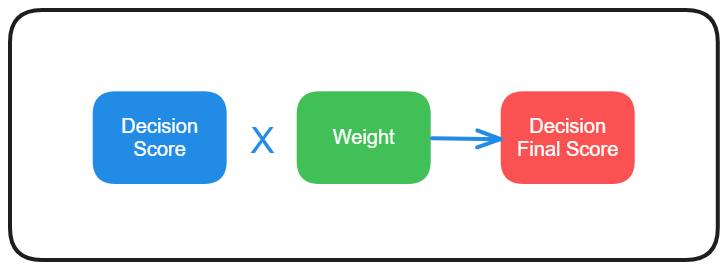
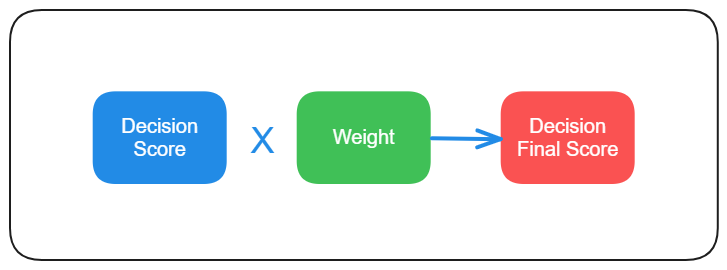
[PUBLISHER] Merge #244
* PUSH NOTE : decisions.md

* PUSH ATTACHMENT : decision-weight.png

diff --git a/docs/UtilityIntelligence/UtilityAgent/decisions.md b/docs/UtilityIntelligence/UtilityAgent/decisions.md
@@ -10,7 +10,7 @@ In **Utility Intelligence**, you can control the prioritization of each decision
 - Combat Layer's Weight: 2.0
 - Urgent Layer's Weight: 3.0
 
-![[../../Attachments/UtilityIntelligence/Documenntation/Decisions/decision-weight.png|../../Attachments/UtilityIntelligence/Documenntation/Decisions/decision-weight.png]]
+![[../../Attachments/UtilityIntelligence/Documenntation/Decisions/decision-weight.png|center|550]]
 
 To change the decision's weight, you need to use the Editor:
 
